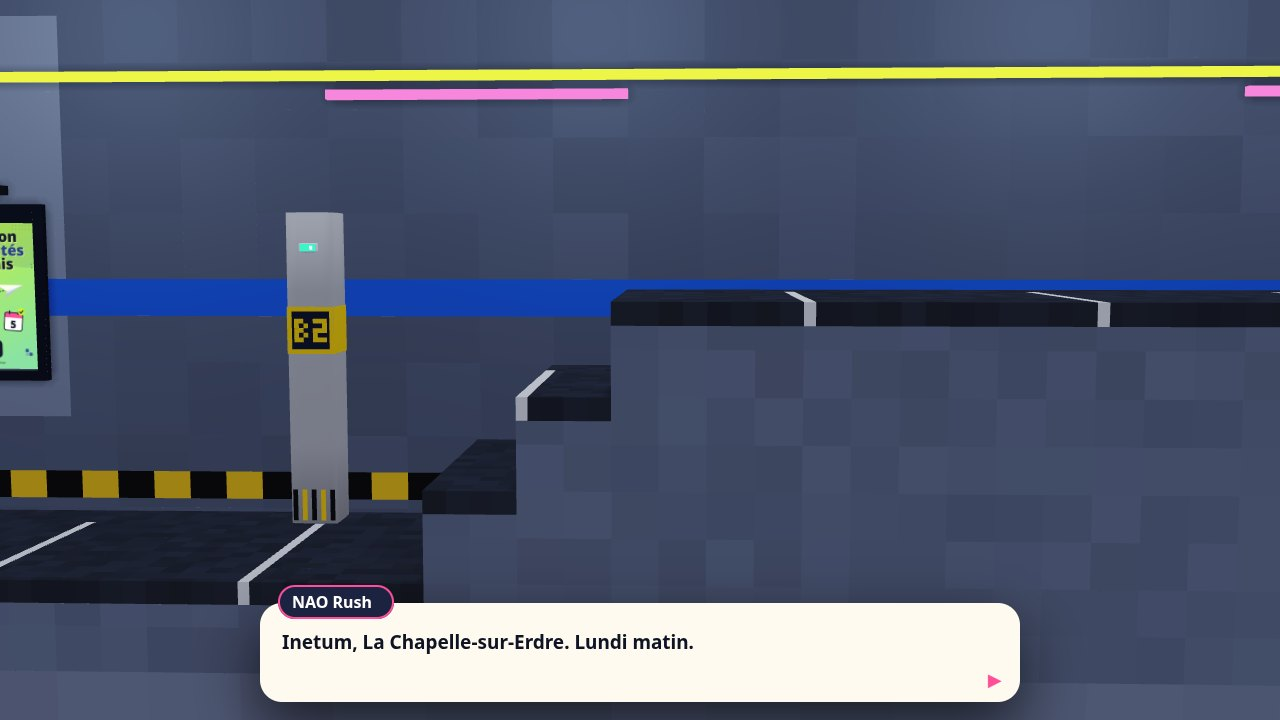
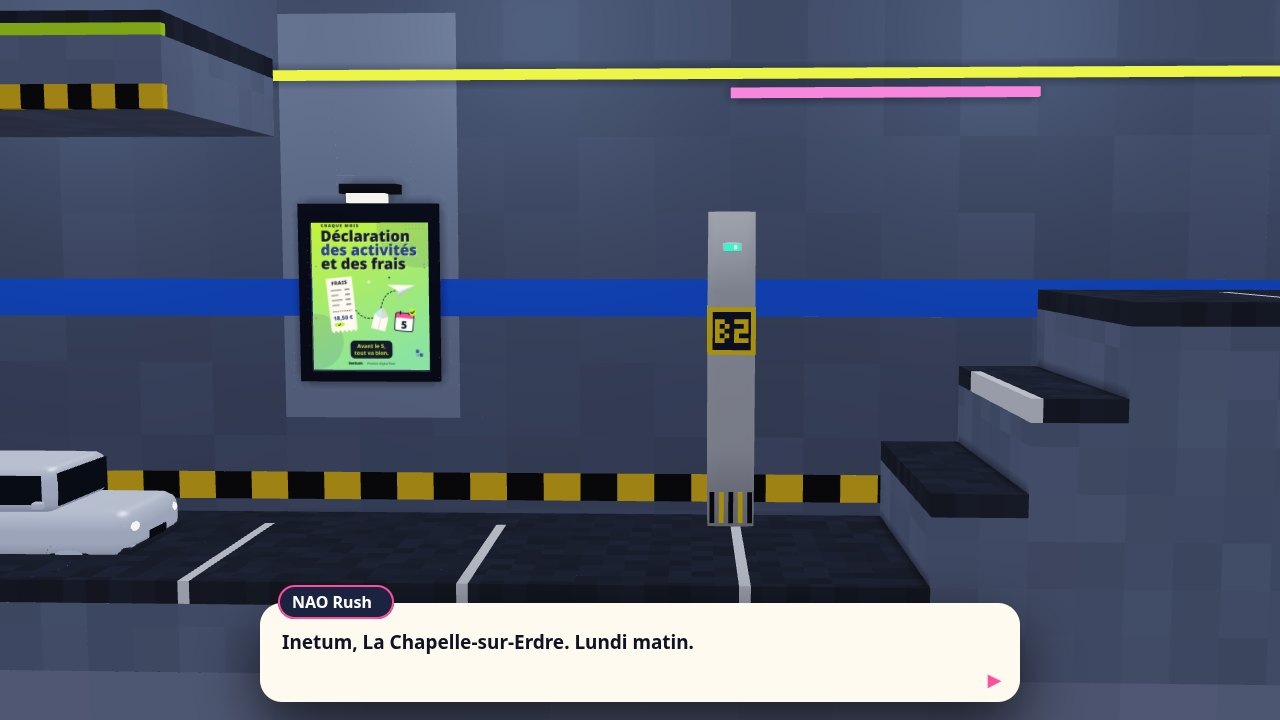
Cleaner README captures (no first-time tips), dialogue shot after the intro glide

diff --git a/scripts/screenshots.js b/scripts/screenshots.js
@@ -29,6 +29,20 @@ const goto = async (x, y, facing = 1) => {
   await page.waitForTimeout(4000);
 };
 
+// Clean captures: tips already seen, no first-time toasts.
+await page.addInitScript(() => {
+  const seen = [
+    'chairRoll',
+    'drawerOut',
+    'sprayOn',
+    'paperShot',
+    'trapdoor',
+    'invite',
+    'vacuumBounce',
+  ];
+  seen.push('internStun', 'archive', 'rackDrop', 'cableWarn', 'zoneWarn', 'dash', 'secret');
+  localStorage.setItem('naorush.tips', JSON.stringify(seen));
+});
 await page.goto(url);
 await until('title');
 await page.waitForTimeout(4000);
@@ -49,6 +63,7 @@ const start = async (stage) => {
 };
 
 await start(0);
+await page.waitForTimeout(2500);
 await shot('dialogue');
 await skipTalk();
 await goto(9, 4);
